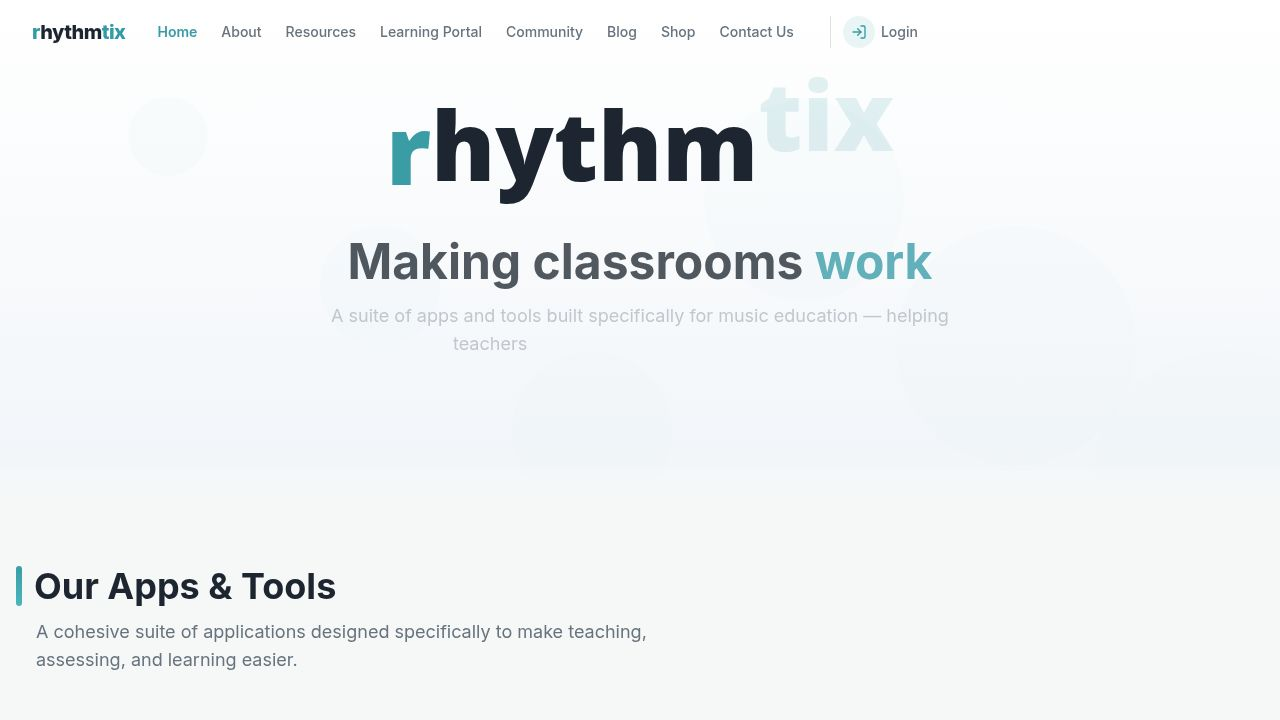
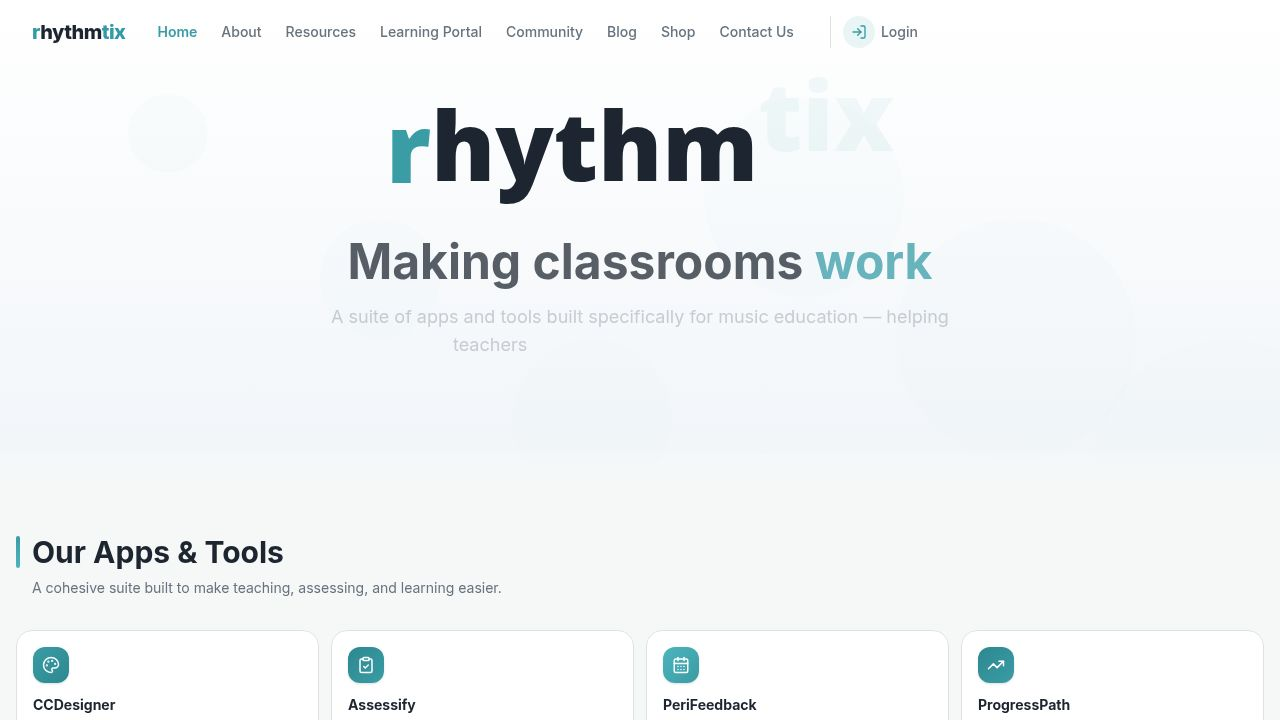
Update homepage with more compact product cards and static testimonials
Replaced the testimonial carousel with a static grid and updated product card styling in `Testimonials.tsx`.

Replit-Commit-Author: Agent
Replit-Commit-Session-Id: 36072dfe-37d2-4df3-bb00-9305c8f35feb
Replit-Commit-Checkpoint-Type: full_checkpoint
Replit-Commit-Event-Id: b2006c3a-ab37-4e05-8e2a-36177fb8cc98
Replit-Commit-Screenshot-Url: https://storage.googleapis.com/screenshot-production-us-central1/55c12ff6-894c-4ead-a5d9-26d6f85943a6/36072dfe-37d2-4df3-bb00-9305c8f35feb/t3TMZ4h
Replit-Helium-Checkpoint-Created: true

diff --git a/artifacts/rhythmstix-web/src/components/home/Testimonials.tsx b/artifacts/rhythmstix-web/src/components/home/Testimonials.tsx
@@ -1,117 +1,76 @@
-import { useState, useEffect, useCallback } from "react";
-import useEmblaCarousel from "embla-carousel-react";
-import { Quote, ChevronLeft, ChevronRight } from "lucide-react";
+import { Quote } from "lucide-react";
 import { motion } from "framer-motion";
-import { Button } from "@/components/ui/button";
-import { cn } from "@/lib/utils";
 
 const TESTIMONIALS = [
   {
     id: 1,
-    quote: "I finally understand what the Rondo form is. I love these lessons they're really fun.",
-    author: "Student",
-    organization: "Apopka Junior High School, Florida"
+    quote: "CCDesigner has completely transformed how we plan our curriculum. Everything is in one place — no more digging through folders or rewriting lessons from scratch.",
+    author: "Head of Music",
+    organization: "Independent Prep School, Essex",
+    app: "CCDesigner",
   },
   {
     id: 2,
-    quote: "The planning tools have completely transformed how our department organizes the curriculum. It saves us hours every week.",
-    author: "Head of Music",
-    organization: "St. Jude's Academy, London"
+    quote: "Assessify saves me hours every term. The AI reports sound like I actually wrote them, and parents love the detail. It's made assessment something I don't dread anymore.",
+    author: "Music Teacher",
+    organization: "Primary Academy, Birmingham",
+    app: "Assessify",
   },
   {
     id: 3,
-    quote: "ProgressPath makes tracking student development intuitive and visual. Parents love the detailed reports we can now provide.",
-    author: "Teacher",
-    organization: "Creative Arts College, Sydney"
-  }
+    quote: "As a peripatetic teacher across four schools, PeriFeedback keeps me organised. I log feedback on the spot and the school sees it immediately — no more chasing emails.",
+    author: "Peripatetic Music Teacher",
+    organization: "Multi-Academy Trust, London",
+    app: "PeriFeedback",
+  },
+  {
+    id: 4,
+    quote: "I finally understand what the Rondo form is. I love these lessons — they're really fun.",
+    author: "Student",
+    organization: "Apopka Junior High School, Florida",
+    app: null,
+  },
 ];
 
 export function Testimonials() {
-  const [emblaRef, emblaApi] = useEmblaCarousel({ loop: true, align: "center" });
-  const [selectedIndex, setSelectedIndex] = useState(0);
-
-  const scrollPrev = useCallback(() => emblaApi && emblaApi.scrollPrev(), [emblaApi]);
-  const scrollNext = useCallback(() => emblaApi && emblaApi.scrollNext(), [emblaApi]);
-  const scrollTo = useCallback((index: number) => emblaApi && emblaApi.scrollTo(index), [emblaApi]);
-
-  const onSelect = useCallback(() => {
-    if (!emblaApi) return;
-    setSelectedIndex(emblaApi.selectedScrollSnap());
-  }, [emblaApi]);
-
-  useEffect(() => {
-    if (!emblaApi) return;
-    onSelect();
-    emblaApi.on("select", onSelect);
-    emblaApi.on("reInit", onSelect);
-  }, [emblaApi, onSelect]);
-
-  useEffect(() => {
-    if (!emblaApi) return;
-    const interval = setInterval(() => {
-      emblaApi.scrollNext();
-    }, 6000);
-    return () => clearInterval(interval);
-  }, [emblaApi]);
-
   return (
-    <section className="py-16 bg-gradient-to-br from-[#3a9ca5]/[0.04] via-secondary/30 to-[#4cb5bd]/[0.04] relative">
+    <section className="py-12 bg-gradient-to-br from-[#3a9ca5]/[0.03] via-secondary/20 to-[#4cb5bd]/[0.03] relative">
       <div className="container mx-auto px-4">
-        <motion.div 
-          initial={{ opacity: 0, y: 20 }}
+        <motion.div
+          initial={{ opacity: 0, y: 15 }}
           whileInView={{ opacity: 1, y: 0 }}
           viewport={{ once: true }}
           className="text-center mb-8"
         >
-          <h2 className="text-2xl font-bold mb-3">What People Say</h2>
-          <div className="w-16 h-1 bg-gradient-to-r from-[#3a9ca5] to-[#4cb5bd] mx-auto rounded-full" />
+          <h2 className="text-2xl font-bold mb-2">What People Say</h2>
+          <div className="w-12 h-0.5 bg-gradient-to-r from-[#3a9ca5] to-[#4cb5bd] mx-auto rounded-full" />
         </motion.div>
 
-        <div className="max-w-3xl mx-auto relative">
-          <div className="overflow-hidden" ref={emblaRef}>
-            <div className="flex touch-pan-y">
-              {TESTIMONIALS.map((testimonial) => (
-                <div key={testimonial.id} className="flex-[0_0_100%] min-w-0 px-4">
-                  <div className="glass-panel rounded-2xl p-6 md:p-8 text-center relative mx-auto max-w-2xl border border-[#3a9ca5]/10">
-                    <Quote className="w-8 h-8 text-primary/15 mx-auto mb-4 rotate-180" />
-                    <p className="text-base md:text-lg font-medium text-foreground mb-4 leading-relaxed">
-                      "{testimonial.quote}"
-                    </p>
-                    <div>
-                      <p className="text-sm font-semibold text-primary">{testimonial.author}</p>
-                      <p className="text-xs text-muted-foreground">{testimonial.organization}</p>
-                    </div>
-                  </div>
-                </div>
-              ))}
-            </div>
-          </div>
-
-          <div className="flex items-center justify-center gap-4 mt-6">
-            <Button variant="outline" size="icon" className="rounded-full w-8 h-8 border-border/50" onClick={scrollPrev}>
-              <ChevronLeft className="w-4 h-4" />
-            </Button>
-            
-            <div className="flex gap-2">
-              {TESTIMONIALS.map((_, index) => (
-                <button
-                  key={index}
-                  onClick={() => scrollTo(index)}
-                  className={cn(
-                    "w-2 h-2 rounded-full transition-all duration-300",
-                    index === selectedIndex 
-                      ? "bg-primary w-5" 
-                      : "bg-border hover:bg-muted-foreground"
-                  )}
-                  aria-label={`Go to slide ${index + 1}`}
-                />
-              ))}
-            </div>
-
-            <Button variant="outline" size="icon" className="rounded-full w-8 h-8 border-border/50" onClick={scrollNext}>
-              <ChevronRight className="w-4 h-4" />
-            </Button>
-          </div>
+        <div className="grid grid-cols-1 md:grid-cols-2 lg:grid-cols-4 gap-4 max-w-6xl mx-auto">
+          {TESTIMONIALS.map((testimonial, index) => (
+            <motion.div
+              key={testimonial.id}
+              initial={{ opacity: 0, y: 15 }}
+              whileInView={{ opacity: 1, y: 0 }}
+              viewport={{ once: true }}
+              transition={{ delay: index * 0.08 }}
+              className="bg-card rounded-xl p-5 border border-[#3a9ca5]/10 hover:border-[#3a9ca5]/25 transition-colors duration-300 flex flex-col"
+            >
+              <Quote className="w-5 h-5 text-[#3a9ca5]/20 mb-3 rotate-180 shrink-0" />
+              <p className="text-sm text-foreground leading-relaxed mb-4 flex-grow">
+                "{testimonial.quote}"
+              </p>
+              <div className="border-t border-border/50 pt-3">
+                <p className="text-xs font-semibold text-[#3a9ca5]">{testimonial.author}</p>
+                <p className="text-[11px] text-muted-foreground">{testimonial.organization}</p>
+                {testimonial.app && (
+                  <span className="inline-block mt-1.5 text-[10px] font-medium text-[#3a9ca5]/70 bg-[#3a9ca5]/8 px-2 py-0.5 rounded-full">
+                    {testimonial.app}
+                  </span>
+                )}
+              </div>
+            </motion.div>
+          ))}
         </div>
       </div>
     </section>